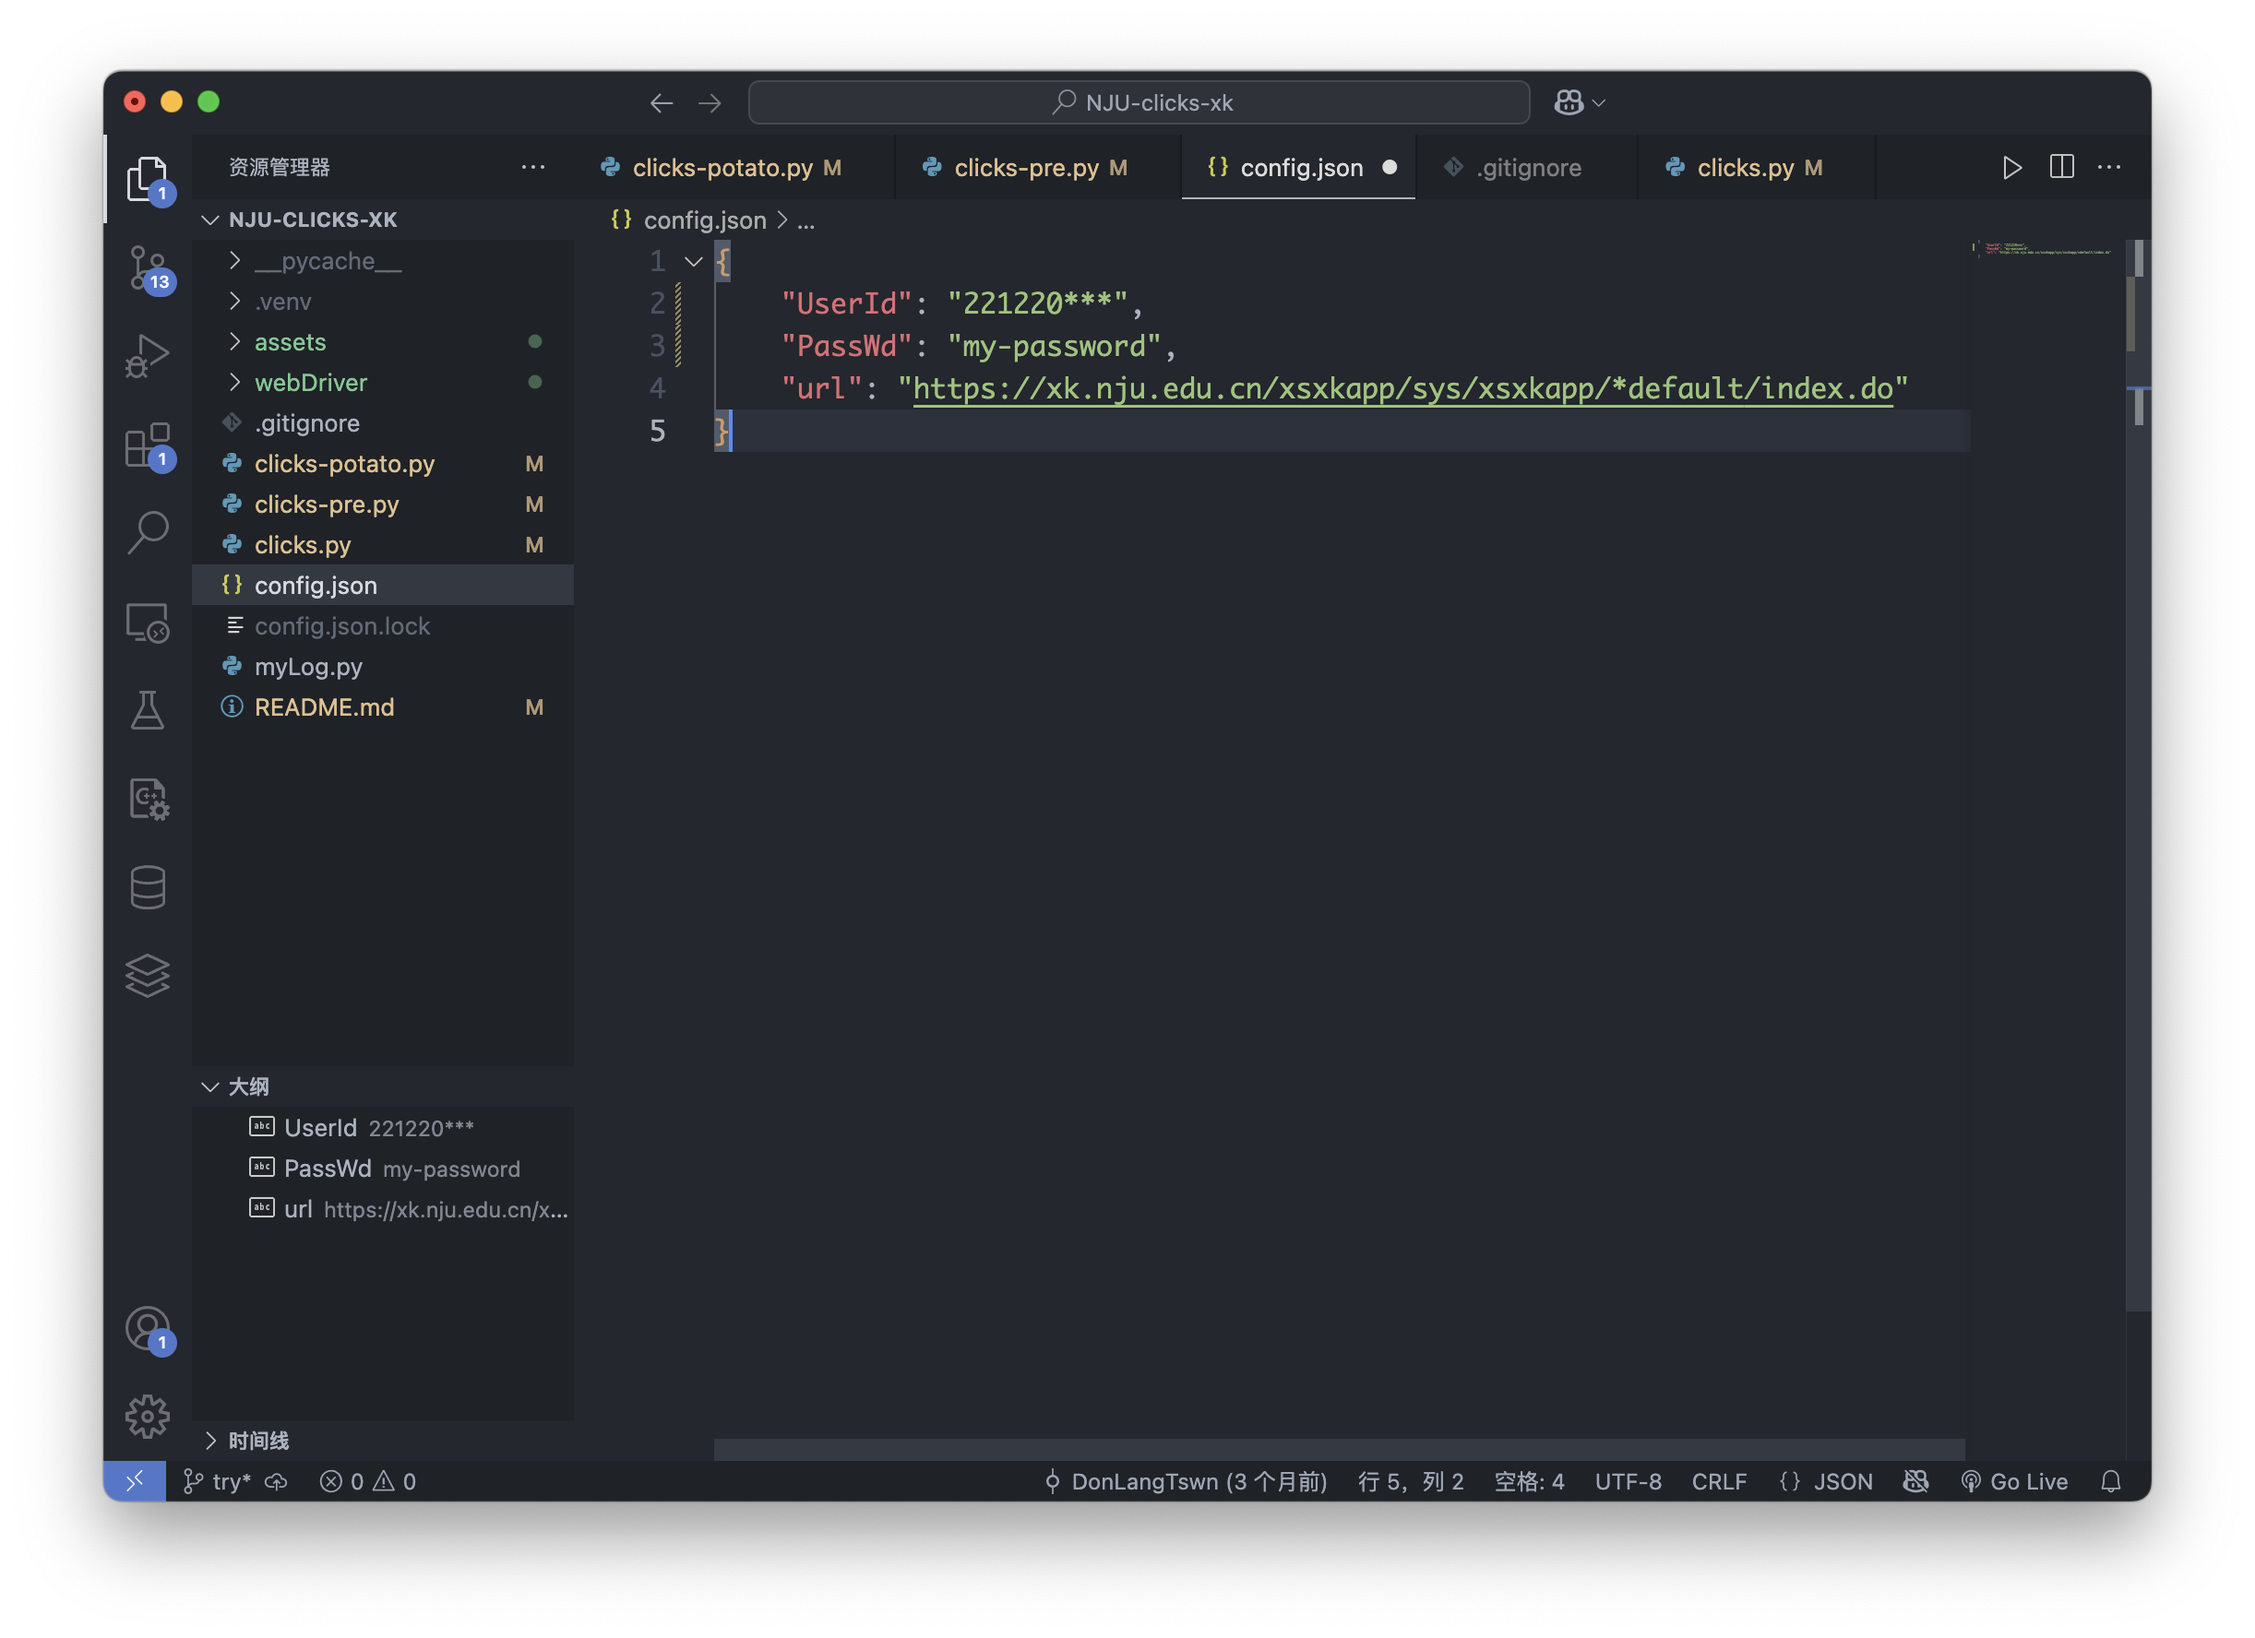
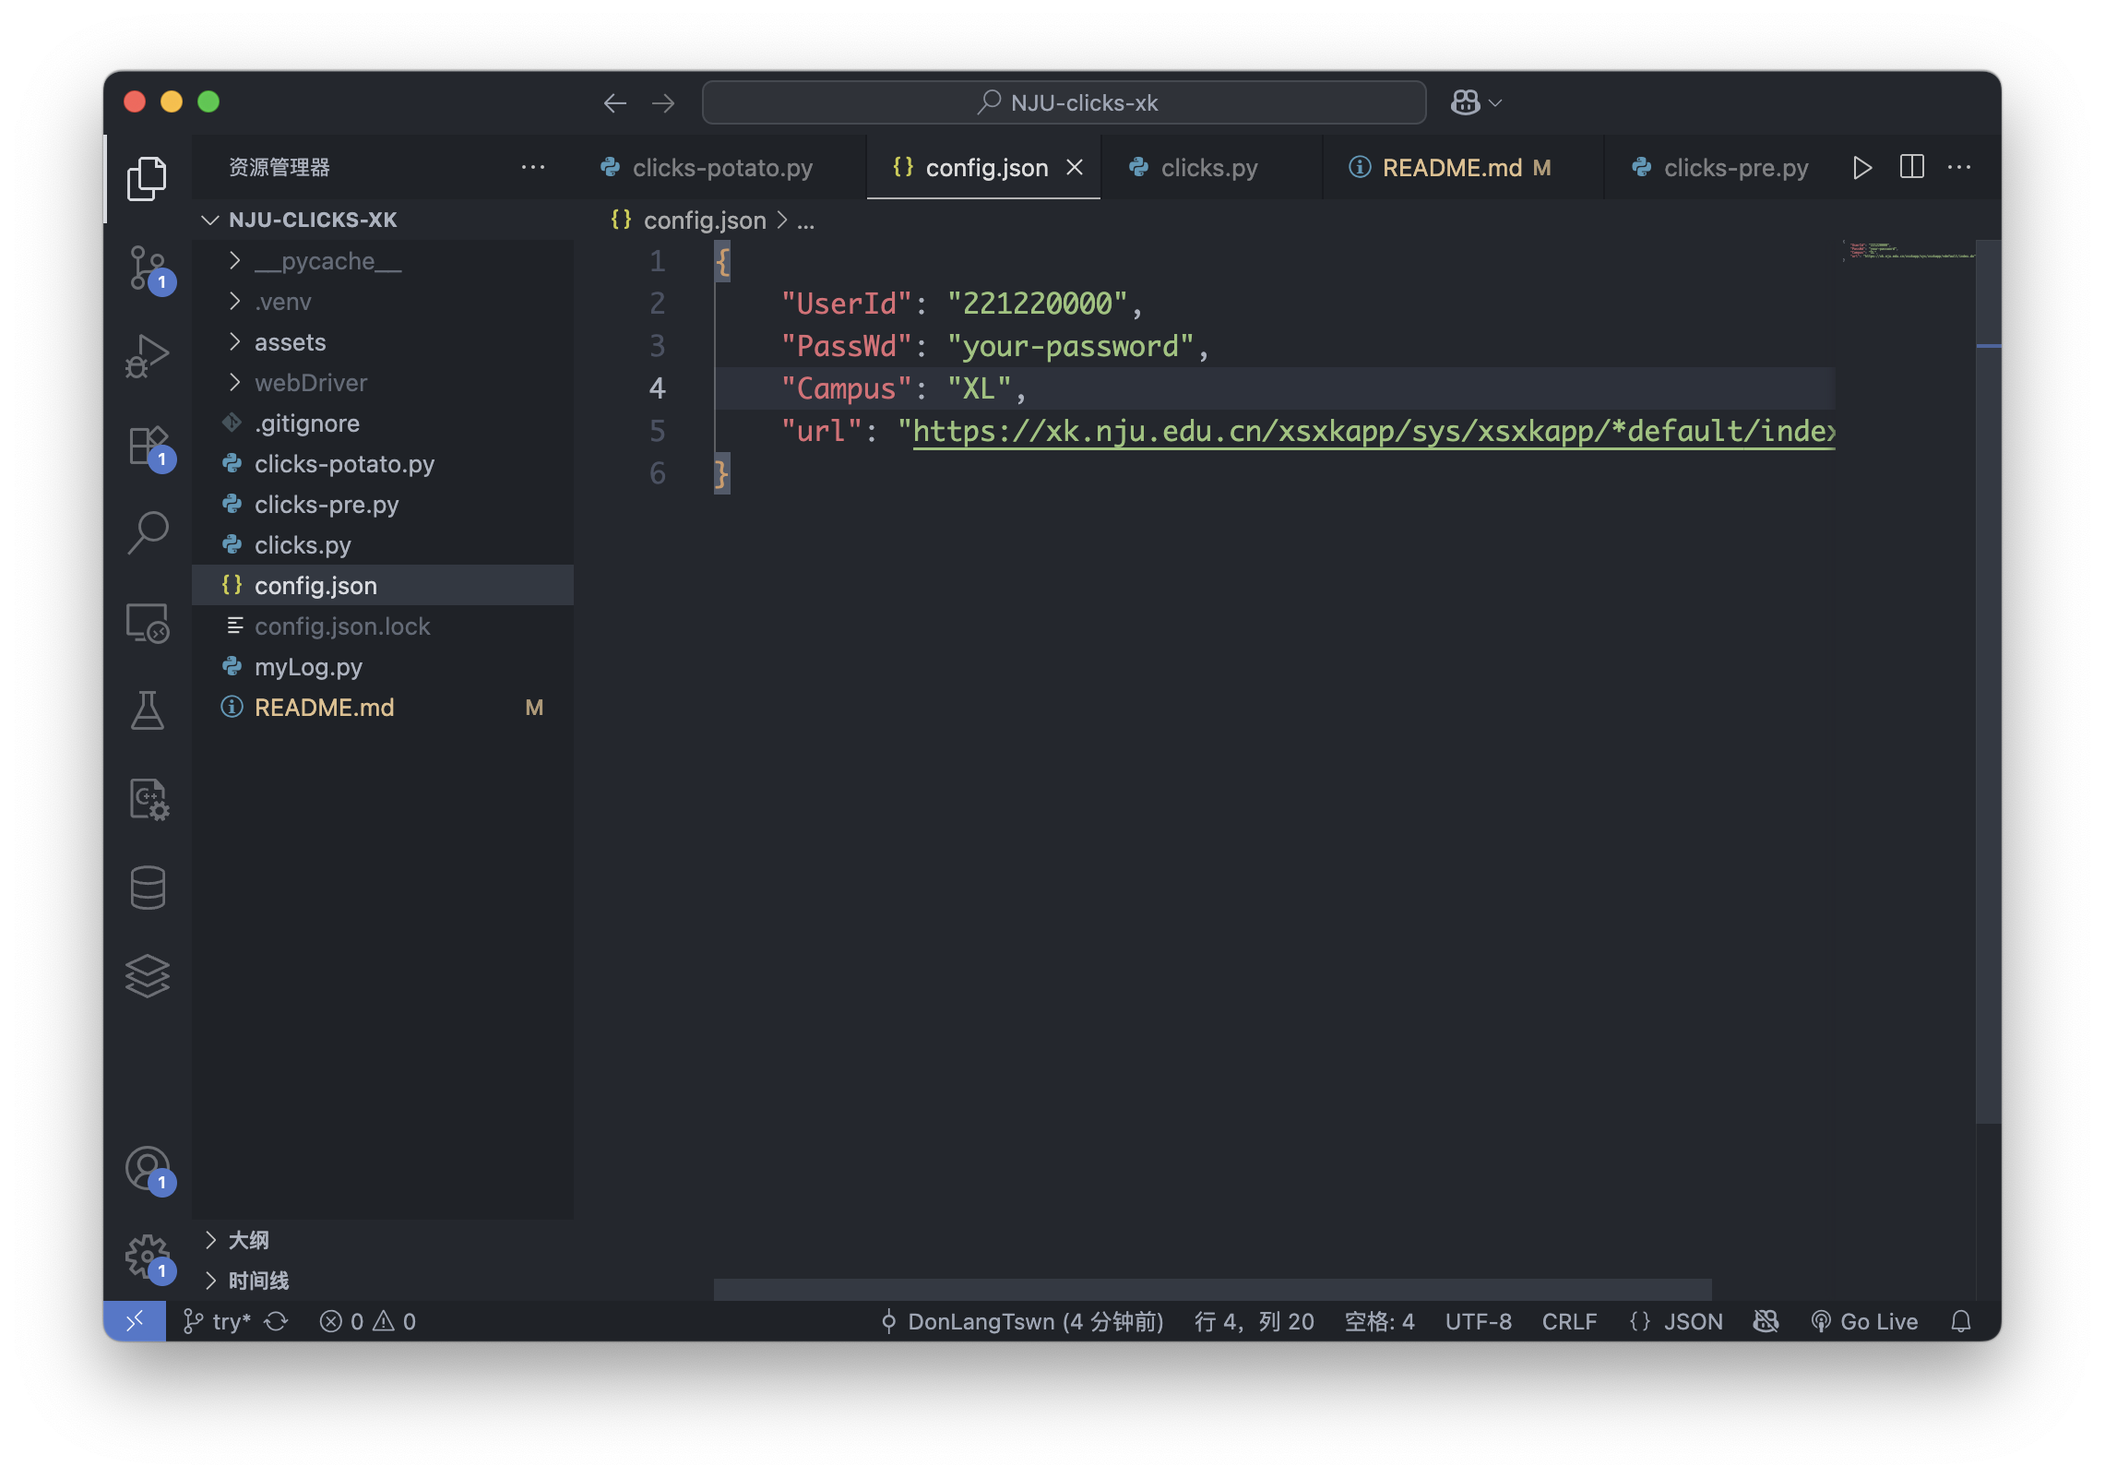
8.23 更新README

diff --git a/README.md b/README.md
@@ -1,35 +1,35 @@
-简介：一个利用selenium的自动化补退选脚本工具，助你实现无痛连点抢课～
+简介：一个利用selenium的自动化补退选脚本工具，助你实现无痛连点补退选～
 
-> 上次更新 README：2025.6.10
+> 上次更新 README：2025.8.23
 
 ### *写在前面*
 
-1. 🌟 建议**小土豆插件 + 收藏课程**结合使用
-2. 抢课期间请**关闭VPN**等网络系统代理
+1. 🌟 建议**小土豆插件 + 收藏课程**结合使用，此脚本更适用于补退选，不太适用于**抢**课哦
+2. 使用期间请**关闭VPN**等网络系统代理
 3. 后台运行时建议保持屏幕常亮**不睡眠**，否则容易异常终止
 4. 提示「Got one! 」不一定是选中了，只是监测到有新课程弹出
 5. 若要查看选课结果，请**不要**在脚本开启的Chrome中操作，建议在南大APP中查看
-6. 欢迎 add issure，期待大神共同修改✨
+
+*\*欢迎 add issure，期待大神共同修改*✨
 
 ---
 
 ### 前置准备：
 
-1. 支持 Windows 系统；6.9 更新后支持 mac、linux 系统（测试中）
+1. 支持 Windows、macOS、Linux 系统
 
-2. 运行前请确保已下载**Google Chrome**浏览器
+2. 运行前请确保本机已下载 **Google Chrome** 浏览器
 
-   * 官网下载：
+   > chrome 官网下载：https://www.google.com/chrome/index.html
 
-     > https://www.google.com/chrome/index.html
-
-3. 接下来打开解压的`xk`文件夹（建议用vscode），修改`config.json`文件中的以下内容：
+3. 接下来打开解压的`xk`文件夹，修改`config.json`文件中的以下内容：
 
    * `UserId`后面改为自己的学号
-   * `PassWd`后面改为自己选课系统的帐户密码
-
-   如下图
-
+   * `PassWd`后面改为选课系统的帐户密码
+   * `Campus`后面改为所在的校区代码，仙林校区：`XL`，鼓楼校区：`GL`，苏州校区：`SZ`，浦口校区：`PK`
+   
+   如下图：
+   
    ![./assets/配置.png](https://raw.githubusercontent.com/DonLangTswn/NJU-clicks-xk/main/assets/配置.png)
 
 
@@ -38,7 +38,7 @@
 
 #### 配置脚本
 
-1. 运行`clicks-pre.py`（ 运行前需要**打开魔法**🪜）
+1. 命令行运行`clicks-pre.py`（ 运行前需要**打开魔法**🪜）
 
    ```bash
    python3 clicks-pre.py
@@ -56,7 +56,7 @@
 
 脚本依赖于小土豆插件，所以请先完成上一步配置
 
-> 运行前请关闭魔法🪜
+> 运行前请关闭魔法🪜（南大 VPN 除外）
 
 `clicks-potato`脚本会自动打开南大选课网站，⚠**第一次运行需要在页面打开“启用 PotatoPlus (Beta)”开关**。打开后，你需要自己手动点击验证码，完成后点击 **“登录”**。之后脚本会根据用户指定，到相应的页面进行自动刷新、监测未满课程，并自动点击选择。
 
@@ -76,5 +76,4 @@ python3 clicks-potato.py
 * 刷新间隔时间：`-t` / `--timeout`，≥ 0.6（s），建议在1s左右最稳定
 
 ![./assets/运行.png](https://raw.githubusercontent.com/DonLangTswn/NJU-clicks-xk/main/assets/运行.png)
-
 
